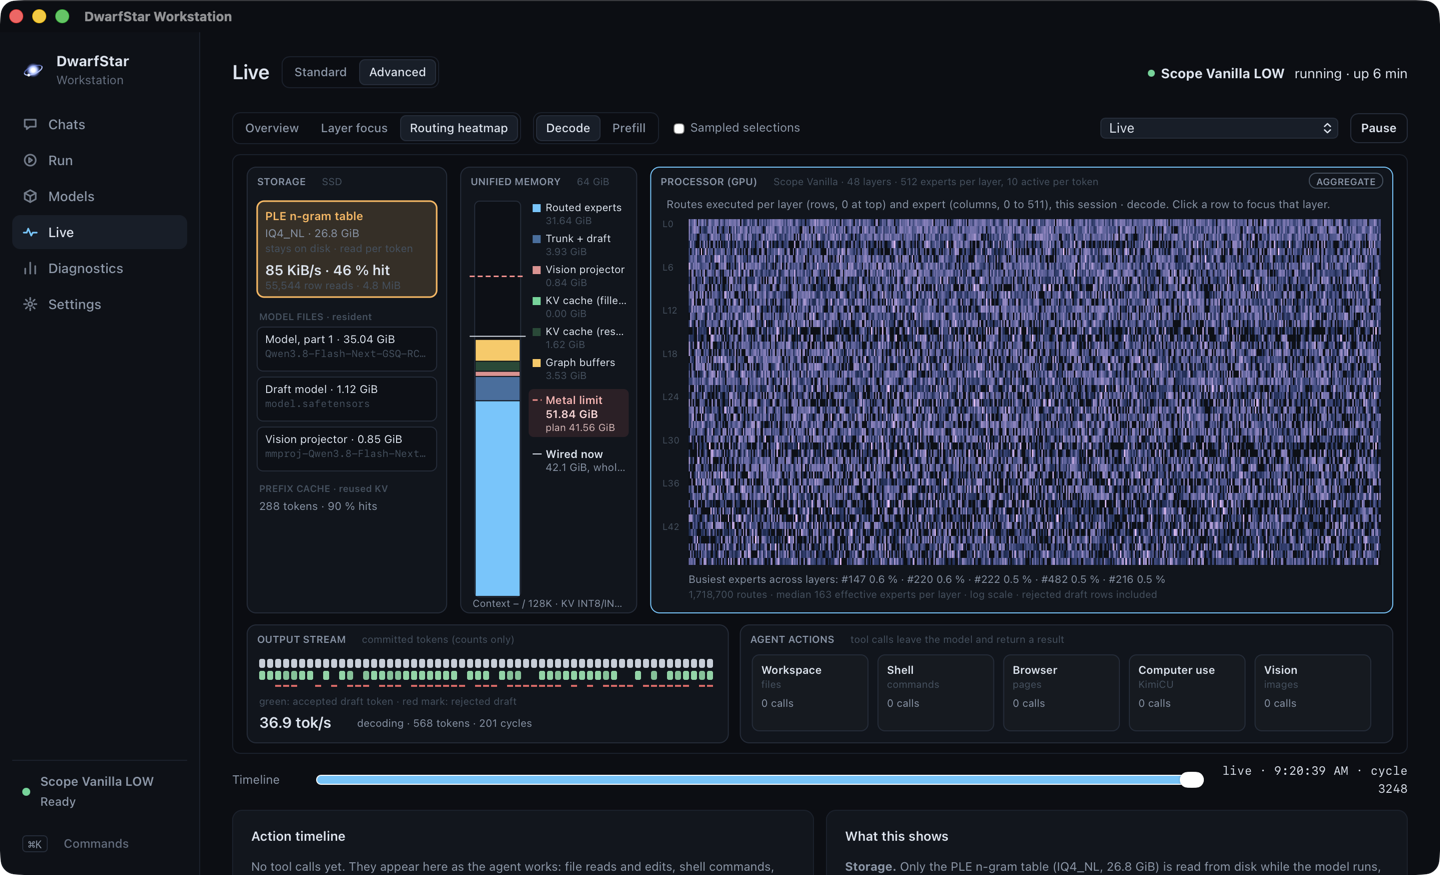
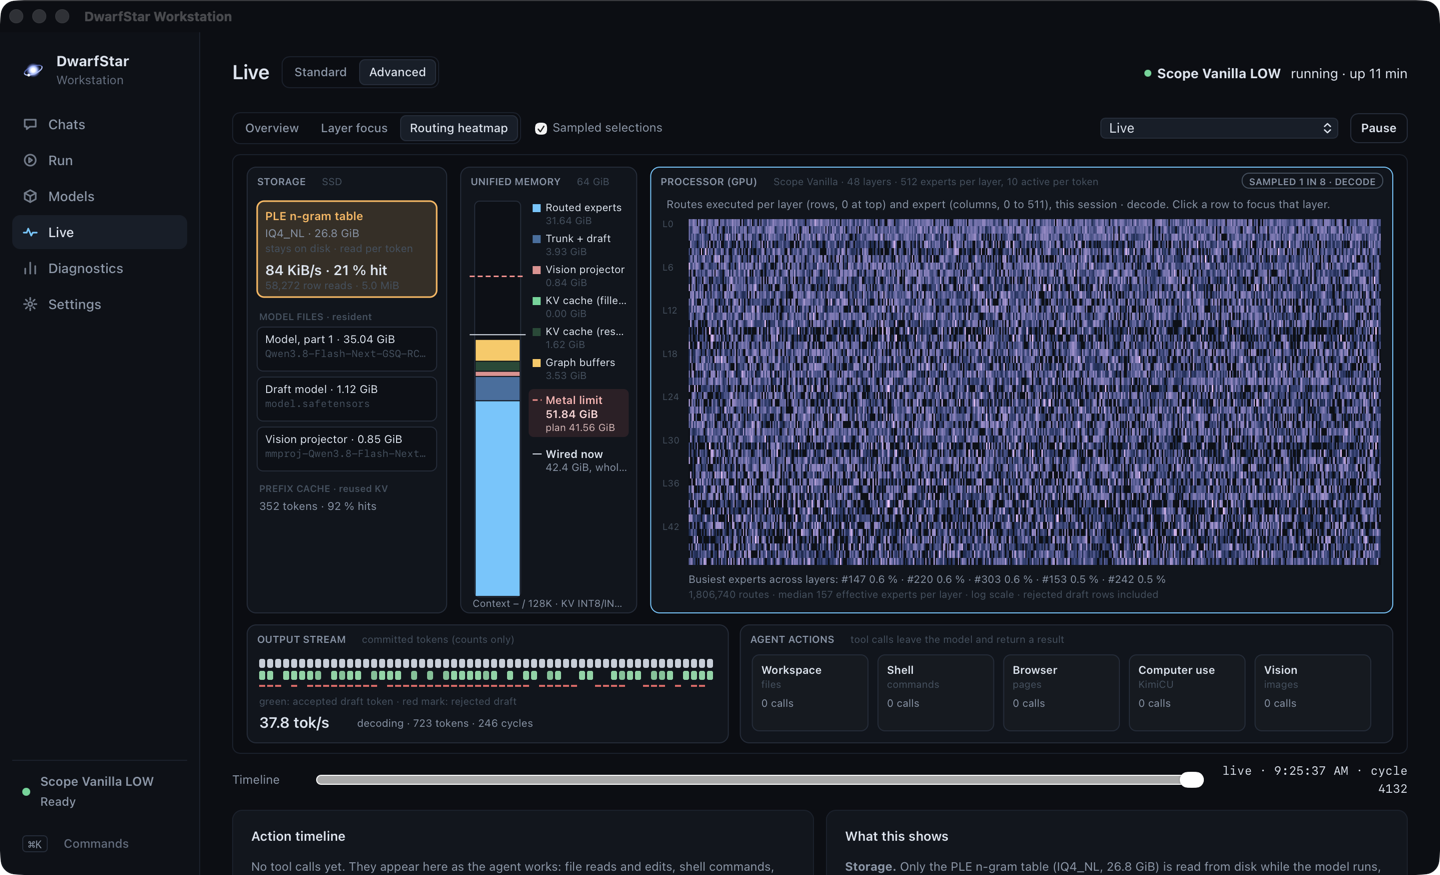
Workstation: routing views follow the live phase
The Decode/Prefill switch is gone: the overview's recent routing takes both
phases, and Layer focus and the heatmap show prefill while a prompt is
processed and decode while the model generates, on one display. The badge
names the mode and the phase (AGGREGATE · DECODE). The status line says
'prefilling a prompt' while it does. Screenshots retaken.

diff --git a/app/workstation/web/visualizer.js b/app/workstation/web/visualizer.js
@@ -17,7 +17,7 @@
     pills: [], reads: [], lastTickAt: 0, replay: null, toolPulse: {}, activeTool: null,
     dflash: null, dflashSince: 0, dflashPoll: 0,
     history: [], open: null, viewing: null, historyDrawn: 0, requestSeq: 0,
-    router: null, ple: null, routerLevel: 2, routingPhase: 0,
+    router: null, ple: null, routerLevel: 2,
   };
   /* ds3 router telemetry. The runtime's MoE grouping kernel counts the routes each step executes per layer and
    * expert (speculative verify rows a later check rejects included) into a small page the engine reads when polled;
@@ -68,10 +68,6 @@
           <button class="chip" data-mode="layer">Layer focus</button>
           <button class="chip" data-mode="heatmap">Routing heatmap</button>
         </div>
-        <div class="seg" id="viz-phase" style="display:none" title="Which steps the routing views count: decode (verify cycles) or prefill (prompt chunks)">
-          <button class="chip selected" data-phase="0">Decode</button>
-          <button class="chip" data-phase="1">Prefill</button>
-        </div>
         <label class="small muted" id="viz-sampled-wrap" style="display:none" title="Also copy one decode step in N's selected experts from the GPU (row 0 of the step, no weights). Aggregates stay on either way."><input type="checkbox" id="viz-sampled" aria-label="Sampled selections" style="vertical-align:middle"> Sampled selections</label>
         <label class="small muted" id="viz-layer-wrap" style="display:none">Layer <input type="range" id="viz-layer" min="0" max="47" value="24" style="vertical-align:middle;width:160px"> <b id="viz-layer-n">24</b></label>
         <span class="spacer"></span>
@@ -99,10 +95,6 @@
     const layer = V.root.querySelector("#viz-layer");
     layer.oninput = () => { V.focusLayer = +layer.value; V.root.querySelector("#viz-layer-n").textContent = layer.value; };
     V.root.querySelector("#viz-pause").onclick = () => setPaused(!V.paused);
-    V.root.querySelectorAll("[data-phase]").forEach((b) => b.onclick = () => {
-      V.routingPhase = +b.dataset.phase;
-      V.root.querySelectorAll("[data-phase]").forEach((x) => x.classList.toggle("selected", x === b));
-    });
     V.root.querySelector("#viz-sampled").onchange = (e) => { V.routerLevel = e.target.checked ? 3 : 2; };
     const scrub = V.root.querySelector("#viz-scrub");
     scrub.oninput = () => { setPaused(true); V.playhead = +scrub.value; };
@@ -202,11 +194,12 @@
     r.steps[phase] += e.steps || 0; r.routes[phase] += e.routes || 0;
     if (!e.payload || !e.layers) { if (!first) r.summaries += 1; return; }
     const heat = r.heat[phase], E = r.experts, now = performance.now();
-    if (phase === 0) {
-      const decay = r.recentAt ? Math.exp(-(now - r.recentAt) / RECENT_MS) : 0;
-      for (let i = 0; i < r.recent.length; i++) r.recent[i] *= decay;
-      r.recentAt = now;
-    }
+    // One picture of what the model is doing now: prefill and decode both feed the decaying "recent" histogram, and
+    // the session views follow the phase the latest interval came from.
+    const decay = r.recentAt ? Math.exp(-(now - r.recentAt) / RECENT_MS) : 0;
+    for (let i = 0; i < r.recent.length; i++) r.recent[i] *= decay;
+    r.recentAt = now;
+    r.livePhase = phase;
     const open = phase === 0 ? requestAt(e.t - (e.interval_ms || 0), e.t) : null;
     if (open && !open.heat) { open.heat = new Uint32Array(r.layers * E); open.heatLayers = r.layers; open.heatExperts = E; open.routes = 0; open.samples = []; }
     const own = open && open.heatLayers === r.layers && open.heatExperts === E ? open : null;
@@ -216,7 +209,7 @@
         const at = l * E + row[i], count = row[i + 1];
         if (row[i] >= E) continue;
         heat[at] += count;
-        if (phase === 0) r.recent[at] += count;
+        r.recent[at] += count;
         if (own) own.heat[at] += count;
       }
     });
@@ -268,7 +261,7 @@
   function currentHeat() {
     const r = V.router; if (!r) return null;
     if (V.viewing) return V.viewing.heat && V.viewing.heatLayers === r.layers ? V.viewing.heat : null;
-    return r.heat[V.routingPhase];
+    return r.heat[livePhase()];
   }
   /* A layers x experts image of a histogram, log-scaled, made only when the data changed (at most at the poll rate)
    * and drawn scaled with smoothing off: the canvas never draws 24 576 cells itself. */
@@ -642,8 +635,8 @@
     label("expert 0", stripX, py + ph + 1, COLORS.faint, "9px -apple-system, BlinkMacSystemFont, \"Helvetica Neue\", sans-serif");
     label("expert " + (experts - 1), stripX + stripW, py + ph + 1, COLORS.faint, "9px -apple-system, BlinkMacSystemFont, \"Helvetica Neue\", sans-serif", "right");
     if (hasRouting()) {
-      label(recentLive ? "routes in the last ~1.5 s, each layer to its busiest expert" + (sample ? " · white: sampled step " + sample.step : "") : "", stripX + stripW / 2, py + ph + 1, COLORS.faint, "9px -apple-system, BlinkMacSystemFont, \"Helvetica Neue\", sans-serif", "center", stripW - 140);
-      if (!recentLive) label(D.runningModel() ? (V.viewing ? "Viewing a request: its routing is in the Routing heatmap and Layer focus views." : "Waiting for decode steps. Routing appears while the model generates.") : "Start a model to see routing.", stripX + 10, py + ph / 2 - 6, COLORS.muted, "12px -apple-system, BlinkMacSystemFont, \"Helvetica Neue\", sans-serif", "left", stripW - 20);
+      label(recentLive ? phaseName() + " · routes in the last ~1.5 s, each layer to its busiest expert" + (sample ? " · white: sampled step " + sample.step : "") : "", stripX + stripW / 2, py + ph + 1, COLORS.faint, "9px -apple-system, BlinkMacSystemFont, \"Helvetica Neue\", sans-serif", "center", stripW - 140);
+      if (!recentLive) label(D.runningModel() ? (V.viewing ? "Viewing a request: its routing is in the Routing heatmap and Layer focus views." : "Waiting for the model to run. Routing appears while it processes a prompt or generates.") : "Start a model to see routing.", stripX + 10, py + ph / 2 - 6, COLORS.muted, "12px -apple-system, BlinkMacSystemFont, \"Helvetica Neue\", sans-serif", "left", stripW - 20);
     } else if (!caps().router && !hasRouting()) notReported(stripX - 62, py, stripW + 62, ph, "Router selections are");
     else if (!rows) label(D.runningModel() ? "Waiting for the next token. Router selections appear while the model generates." : "Start a model to see routing.", stripX + 10, py + ph / 2 - 6, COLORS.muted, "12px -apple-system, BlinkMacSystemFont, \"Helvetica Neue\", sans-serif");
     // token pill travelling down the stack
@@ -691,7 +684,7 @@
   }
   /* What the routing views are drawn from, top right of the processor card. */
   function routingBadge(right, y) {
-    const g = V.g, text = (routerModeLabel() + (V.viewing ? " · request" : "")).toUpperCase();
+    const g = V.g, text = (routerModeLabel() + (V.viewing ? " · request" : V.router && V.router.recentAt ? " · " + phaseName() : "")).toUpperCase();
     g.font = "600 9.5px -apple-system, BlinkMacSystemFont, \"Helvetica Neue\", sans-serif";
     const w = g.measureText(text).width + 14, x = right - w;
     g.fillStyle = COLORS.panel; g.fillRect(x - 8, y - 2, w + 8, 18);
@@ -701,10 +694,13 @@
       ? "Aggregate: every route the GPU executed, counted per layer and expert by the grouping kernel. Speculative rows a later check rejects are included. Not a per-token record."
       : "Sampled: the aggregate, plus the selected experts of one decode step in " + ((V.router && V.router.every) || "N") + " (row 0 of that step, without weights)." + (V.router && V.router.samplesDropped ? " " + V.router.samplesDropped + " samples were overwritten before a poll read them." : ""));
   }
-  function phaseName() { return V.routingPhase ? "prefill" : "decode"; }
+  /* The phase the routing views show: a viewed request's decode, else whatever the model did last (prefill while a
+   * prompt is processed, decode while it generates). */
+  function livePhase() { return V.viewing || !V.router ? 0 : V.router.livePhase || 0; }
+  function phaseName() { return livePhase() ? "prefill" : "decode"; }
   let summaryFor = null, summary = null;
   function heatSummary(values, layers, experts, version) {
-    const key = version + "/" + layers + "/" + V.routingPhase + "/" + (V.viewing ? V.viewing.id : "");
+    const key = version + "/" + layers + "/" + livePhase() + "/" + (V.viewing ? V.viewing.id : "");
     if (summaryFor === key) return summary;
     const totals = new Float64Array(experts), effective = [];
     let all = 0;
@@ -848,6 +844,8 @@
       const seconds = decodeSeconds(run);
       return [seconds > 0 ? run.output / seconds : null, (V.viewing ? "viewing a request · " : "decoding · ") + n(run.output) + " tokens · " + n(run.n + run.truncated) + " cycles"];
     }
+    const scheduler = (S.state?.models?.[D.runningModel()] || {}).splash?.scheduler || {};
+    if (scheduler.prefilling) return [null, "prefilling a prompt"];
     const last = V.history[V.history.length - 1];
     if (last) { const seconds = decodeSeconds(last); return [seconds > 0 ? last.output / seconds : null, "idle · last run " + n(last.output) + " tokens · " + n(last.n + last.truncated) + " cycles"]; }
     const receipt = (S.state?.models?.[D.runningModel()] || {}).last_request || {};
@@ -881,7 +879,6 @@
     const key = m.id + (D.runningModel() || "") + routing() + (V.replay ? "r" : ""); if (factsFor === key) return; factsFor = key;
     const sampled = hasRouting() && (caps().routing_levels || []).includes("sampled");
     V.root.querySelector("#viz-sampled-wrap").style.display = sampled ? "" : "none";
-    V.root.querySelector("#viz-phase").style.display = hasRouting() ? "" : "none";
     if (hasRouting()) {
       V.root.querySelector("#viz-facts").innerHTML = `
       <p><b>Storage.</b> Only the PLE n-gram table (${D.esc(m.quantization.ple.split(",")[0])}, ${(S.catalog.details[m.id].assets.ple.bytes / 2 ** 30).toFixed(1)} GiB) is read from disk while the model runs, a few rows per token; the row store reports its requests, cache hits and SSD reads, shown here per poll. The model, the draft model and the vision projector stay resident in unified memory.</p>

diff --git a/docs/WORKSTATION.md b/docs/WORKSTATION.md
@@ -9,7 +9,7 @@
 | **Chats** | New chat (uses the model and reasoning chosen on Run), Recent / Starred / Archived, **folders** (see below), tag filters and search (titles, tags, messages, across every folder), pins (kept on top), stars, tags, inline rename (never overwritten by the automatic title), fork the whole chat or from any reply, new chat with the same settings, export as Markdown or JSON, select mode for bulk archive/restore/delete (deleting needs the count typed out; chats are moved aside, not erased), context used and left, compactions. Turns run through the same ACP agent as Zed and resume its session, so tools, the approval mode and the agent's automatic compaction apply; the full transcript is kept separately under `<data>/chats/` (never in Git). In Ask mode a tool call shows an approval card in the chat. Reasoning is not shown. The last chat reopens after a restart. |
 | **Run** | Model selector (Scope Vanilla, Swift 1.5, Cyber), a reasoning selector that changes per model (the last level used with each model is remembered), the model's context as a fixed capability (128K for all three), launch/switch/stop with a stage row (stop current, memory check, load with a timer against the measured load time, health check, ready), a pre-switch summary when a running model or an answering chat would be interrupted, memory admission, key measured numbers, the matching Zed entry and the tool approval presets. |
 | **Models** | One page per model with the same schema: a measured headline (decode, first token, prefill, start, memory, reasoning levels), then identity, quantization, memory composition and storage; runtime policy, capabilities and file hashes sit behind a disclosure. Anything not measured says **Not measured**. |
-| **Live** | Two views, toggled at the top. **Standard**: the latest request (from the agent's own receipt), then Splash's running measurements since the model started — requests, time to first token, inter-token latency, prefill and decode rates, draft acceptance, prefix-cache hits — plus context, unified memory, thermal state, the processor and tool activity. **Advanced** is the former Visualizer (`docs/VISUALIZER.md`): a data map with a live per-verify-cycle DFlash2 draft panel (from the ds2 runtime's telemetry ring); what Splash does not report (router, experts, PLE) is labelled, never estimated. On the ds3 GPU-telemetry runtime (experiment, [DS3-GPU-TELEMETRY.md](DS3-GPU-TELEMETRY.md)) the processor region also draws router **aggregates** — per-layer routes over the last ~1.5 s, a layer × expert heatmap for the session or a viewed request (decode or prefill), the busiest experts and concentration per layer — with an optional **Sampled selections** switch (one decode step in N, no weights), a badge saying which, and the PLE row store's read rate, cache hits and latency. |
+| **Live** | Two views, toggled at the top. **Standard**: the latest request (from the agent's own receipt), then Splash's running measurements since the model started — requests, time to first token, inter-token latency, prefill and decode rates, draft acceptance, prefix-cache hits — plus context, unified memory, thermal state, the processor and tool activity. **Advanced** is the former Visualizer (`docs/VISUALIZER.md`): a data map with a live per-verify-cycle DFlash2 draft panel (from the ds2 runtime's telemetry ring); what Splash does not report (router, experts, PLE) is labelled, never estimated. On the ds3 GPU-telemetry runtime (experiment, [DS3-GPU-TELEMETRY.md](DS3-GPU-TELEMETRY.md)) the processor region also draws router **aggregates** — per-layer routes over the last ~1.5 s, a layer × expert heatmap for the session or a viewed request, following the phase the model is in (prefill, then decode), the busiest experts and concentration per layer — with an optional **Sampled selections** switch (one decode step in N, no weights), a badge saying which, and the PLE row store's read rate, cache hits and latency. |
 | **Diagnostics** | A status strip (model, reasoning, runtime, context, checks); one memory composition bar with system RAM, the admission requirement, the Metal limit and the measured peak; performance since the model started and system facts side by side; chats, approval mode, telemetry and the last recovery. "All passed" stands for every ready check (27 on a complete installation), with the full list and the data roots behind disclosures; a failing or optional-missing check surfaces in a Needs-attention panel. Refresh, Copy diagnostics (home paths as `~`) and Reconcile state. `bin/dwarfstar doctor` prints the same checks. |
 | **Settings** | Tool approval (the three presets with their behaviour), the Zed agent entries and how to install them, shared Workstation/Zed conversations, About (version, runtime, build), the five data roots, and the chat trash. |
 | **Setup** | The first-run guide. It opens on its own once on a new installation (setup never finished and no chats yet); later from Diagnostics → **Setup guide** or the setup banner. It walks the `doctor` checks by area (this Mac, software, folders and runtime, models, integrations) in green / yellow / red, each problem with its remedy: commands to copy, and for a missing model every expected file path and size. It reads only and never downloads; **Check again** re-runs the checks. Then it offers the tool approval presets (Full Auto keeps its confirmation) and **Finish** records that setup was seen (`setup_completed` in `<data>/state/workstation.json`). |

diff --git a/docs/VISUALIZER.md b/docs/VISUALIZER.md
@@ -10,7 +10,7 @@ The Advanced view of **Live** (`app/workstation/web/visualizer.js`) draws a data
 | Unified memory | controller memory plan + system sampler | Resident model, INT8 K/V cache, buffers, projector, the Metal limit and live wired memory; context of the latest request. |
 | Processor: Overview | `/telemetry` `router_aggregate` (ds3) | Each layer's routes over the last ~1.5 s, scaled to the layer's busiest expert; with **Sampled selections** on, the latest sampled step's experts in white. A badge says AGGREGATE or SAMPLED 1 IN N. Native replays draw their recorded per-token rows; ds2 says "not reported". |
 | Processor: Layer focus | same | One layer's routes per expert (log shade), the ten busiest experts with shares, the top-10 share, effective experts and experts used; the latest sample outlined. |
-| Routing heatmap | same | Routes executed per layer and expert for the session (decode or prefill) or a viewed request; busiest experts across layers and the median effective experts. Counts include speculative rows a later check rejects. |
+| Routing heatmap | same | Routes executed per layer and expert for the session or a viewed request, in the phase the model is in (prefill while it processes a prompt, decode while it generates; the badge names it); busiest experts across layers and the median effective experts. Counts include speculative rows a later check rejects. |
 | Speculative draft (DFlash2) | `/telemetry` `decode_cycle` (ds2+) | Proposals, acceptances and rejections **per verify cycle**: rolling acceptance, the current cycle, and a bar per recent cycle (green accepted, red rejected). |
 | Output stream | `decode_cycle` + request history | Committed tokens per cycle (accepted drafts green, rejections marked red) and the decode rate of the run being generated or viewed, else the last run. |
 | Context | agent receipt and `/status` | Context occupancy of the latest request against the model's 128K. |

diff --git a/docs/DS3-GPU-TELEMETRY.md b/docs/DS3-GPU-TELEMETRY.md
@@ -184,9 +184,10 @@ The Advanced Live view (Standard Live is unchanged) draws, when the runtime repo
 **Overview** — each layer's routes over the last ~1.5 s, scaled to the layer's busiest expert, and with *Sampled
 selections* on, the latest sampled step's experts in white; **Layer focus** — a 512-cell grid of the layer's routes
 (log shade), the ten busiest experts with shares, the top-10 share, effective experts (exp of entropy) and experts used,
-the latest sample outlined; **Routing heatmap** — layers × experts for the session or a viewed request, decode or
-prefill, with the busiest experts across layers and the median effective experts. A badge reads AGGREGATE or SAMPLED 1
-IN N (with a tooltip that says what is counted). The storage card shows the PLE row store's read rate, cache-hit share,
+the latest sample outlined; **Routing heatmap** — layers × experts for the session or a viewed request, with the busiest
+experts across layers and the median effective experts. All three follow the phase the model is in — prefill while it
+processes a prompt, decode while it generates — on one display; a badge names the mode and the phase (AGGREGATE ·
+DECODE, SAMPLED 1 IN N · PREFILL), with a tooltip that says what is counted. The storage card shows the PLE row store's read rate, cache-hit share,
 rows and bytes (latency and cache occupancy on hover); a streamed expert store is shown when a model has one. The proxy
 asks for level 2, or 3 with *Sampled selections*; it never asks for level 4. Export adds a `router` section.
 

diff --git a/CHANGELOG.md b/CHANGELOG.md
@@ -9,7 +9,7 @@
 
 ### Workstation
 
-* **Advanced Live** draws router aggregates: per-layer recent routing, Layer focus (busiest experts, concentration), a layers × experts heatmap (session or request, decode or prefill), an AGGREGATE / SAMPLED 1 IN N badge and a *Sampled selections* switch; the PLE card shows read rate, cache hits and latency. Request export adds `router` with `router_mode`.
+* **Advanced Live** draws router aggregates: per-layer recent routing, Layer focus (busiest experts, concentration), a layers × experts heatmap (session or request); the views follow the phase the model is in (prefill, then decode), shown in the badge, an AGGREGATE / SAMPLED 1 IN N badge and a *Sampled selections* switch; the PLE card shows read rate, cache hits and latency. Request export adds `router` with `router_mode`.
 * The DFlash2 card's draft-token animation is replaced by a bar per recent verify cycle (accepted / rejected); the output stream shows the decode rate of the current or last run; the memory panel shows the latest request's context. MTP-era labels and the flying PLE dots are gone.
 * Fixed: returning to the Advanced view after another view no longer leaves its telemetry poll stopped; a slow poll can no longer be overtaken and replay events out of order; Standard Live's footer no longer says router and PLE activity are unreported on a runtime that reports them.
 

diff --git a/docs/DS3-GPU-TELEMETRY-REPORT.md b/docs/DS3-GPU-TELEMETRY-REPORT.md
@@ -79,7 +79,8 @@ installed app and production service; ds3 is the production candidate on this br
 ## Workstation
 
 31. Advanced Live view: Overview (per-layer routes over ~1.5 s, sampled step overlay), Layer focus (expert grid, busiest
-    experts, top-10 share, effective experts), Routing heatmap (session or request, decode or prefill).
+    experts, top-10 share, effective experts), Routing heatmap (session or request); all follow the live phase
+    (prefill while a prompt is processed, decode while generating), named in the badge.
 32. Labels: AGGREGATE / SAMPLED 1 IN N badge with a tooltip on what is counted; samples carry their own period; intervals
     taken by another consumer are counted and named; facts panel rewritten for ds3; nothing drawn as exact.
 33. Standard Live is unchanged; native session replays keep their own router rows (ds3 routing is off in replays).
